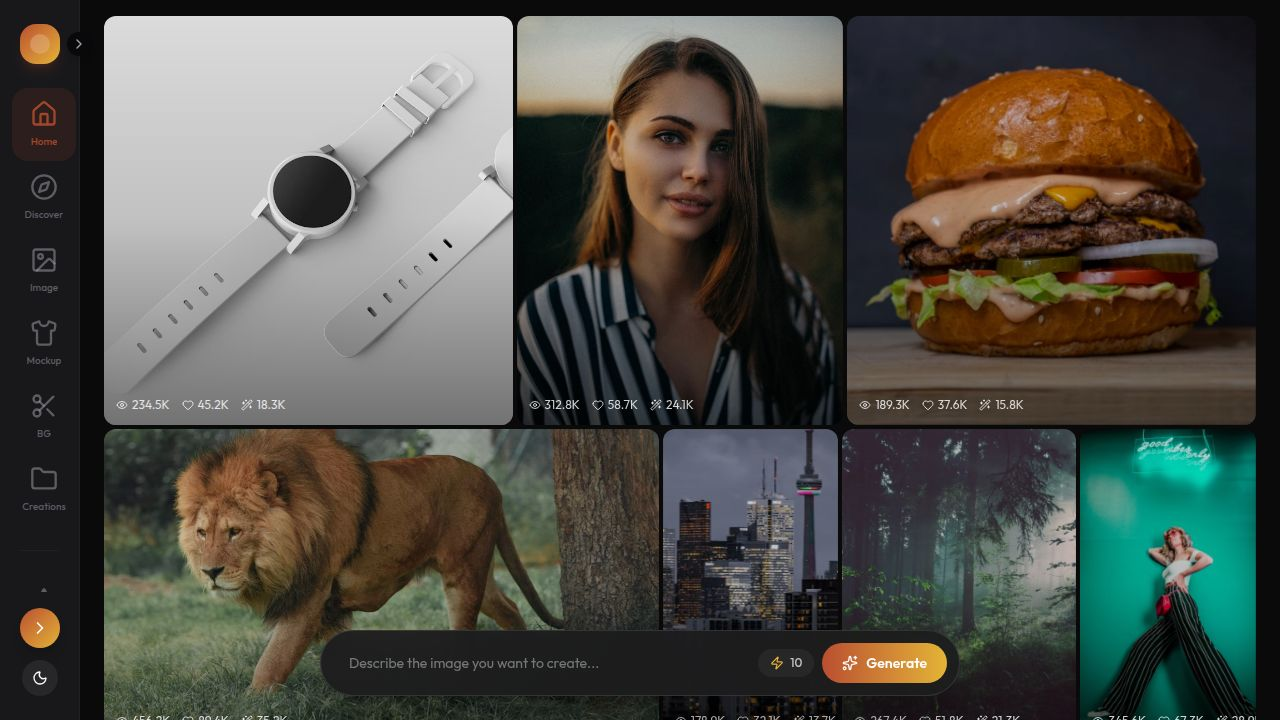
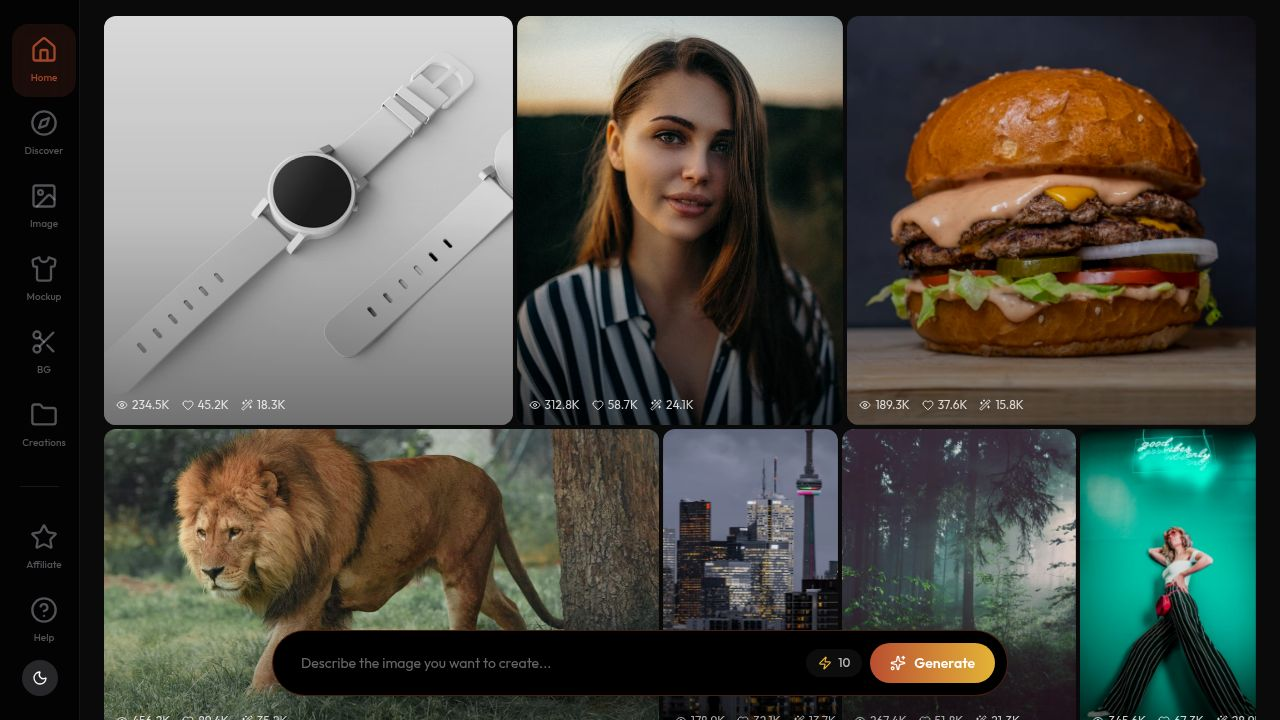
Redesign prompt bar and add frosted glass effect to sidebar
Reorganize the floating prompt bar with input on top and a compact feature dropdown below, and apply a frosted glass effect to the public sidebar component.

Replit-Commit-Author: Agent
Replit-Commit-Session-Id: c3e4121d-e956-4644-804d-67352770f9a6
Replit-Commit-Checkpoint-Type: intermediate_checkpoint
Replit-Commit-Event-Id: 30c1852b-6373-45ae-8990-be819840e0cd
Replit-Commit-Screenshot-Url: https://storage.googleapis.com/screenshot-production-us-central1/2a40bfac-0722-41f4-a364-8c91f025b3f0/c3e4121d-e956-4644-804d-67352770f9a6/RQ3ARtm
Replit-Helium-Checkpoint-Created: true

diff --git a/client/src/components/floating-prompt-bar.tsx b/client/src/components/floating-prompt-bar.tsx
@@ -6,7 +6,8 @@ import {
   RectangleHorizontal, 
   RectangleVertical,
   Zap,
-  ChevronDown
+  ChevronDown,
+  Settings2
 } from "lucide-react";
 import { cn } from "@/lib/utils";
 import { Link } from "wouter";
@@ -91,7 +92,7 @@ export function FloatingPromptBar() {
   return (
     <div 
       ref={containerRef}
-      className="fixed bottom-6 left-1/2 -translate-x-1/2 z-50 w-full max-w-4xl px-4"
+      className="fixed bottom-6 left-1/2 -translate-x-1/2 z-50 w-full max-w-3xl px-4"
       onMouseEnter={handleMouseEnter}
       onMouseLeave={handleMouseLeave}
       onBlur={handleBlur}
@@ -108,159 +109,6 @@ export function FloatingPromptBar() {
         }}
         transition={{ duration: 0.3, ease: [0.4, 0, 0.2, 1] }}
       >
-        <AnimatePresence mode="sync">
-          {isExpanded && (
-            <motion.div
-              initial={{ opacity: 0, height: 0 }}
-              animate={{ opacity: 1, height: "auto" }}
-              exit={{ opacity: 0, height: 0 }}
-              transition={{ duration: 0.25, ease: [0.4, 0, 0.2, 1] }}
-              className="overflow-hidden"
-            >
-              <div className="px-4 py-3 border-b border-white/10">
-                <div className="flex items-center gap-6 overflow-x-auto no-scrollbar">
-                  <div className="flex flex-col gap-1.5 min-w-fit">
-                    <span className="text-[10px] font-semibold text-white/50 uppercase tracking-wider">Quality</span>
-                    <div className="flex gap-1">
-                      {qualityOptions.map((option) => (
-                        <button
-                          key={option.id}
-                          onClick={() => setSelectedQuality(option.id)}
-                          className={cn(
-                            "flex items-center gap-1 px-2.5 py-1 rounded-md text-[11px] font-medium transition-all",
-                            selectedQuality === option.id
-                              ? "bg-[#B94E30] text-white"
-                              : "bg-white/5 text-white/60 hover:bg-white/10 hover:text-white border border-white/10"
-                          )}
-                          data-testid={`quality-${option.id}`}
-                        >
-                          <Sparkles className="h-3 w-3" />
-                          {option.label}
-                        </button>
-                      ))}
-                    </div>
-                  </div>
-
-                  <div className="w-px h-8 bg-white/10" />
-
-                  <div className="flex flex-col gap-1.5 min-w-fit">
-                    <span className="text-[10px] font-semibold text-white/50 uppercase tracking-wider">Speed</span>
-                    <div className="flex gap-1">
-                      {speedOptions.map((option) => (
-                        <button
-                          key={option.id}
-                          onClick={() => setSelectedSpeed(option.id)}
-                          className={cn(
-                            "flex items-center gap-1 px-2.5 py-1 rounded-md text-[11px] font-medium transition-all",
-                            selectedSpeed === option.id
-                              ? "bg-[#B94E30] text-white"
-                              : "bg-white/5 text-white/60 hover:bg-white/10 hover:text-white border border-white/10"
-                          )}
-                          data-testid={`speed-${option.id}`}
-                        >
-                          <Zap className="h-3 w-3" />
-                          {option.label}
-                        </button>
-                      ))}
-                    </div>
-                  </div>
-
-                  <div className="w-px h-8 bg-white/10" />
-
-                  <div className="flex flex-col gap-1.5 min-w-fit">
-                    <span className="text-[10px] font-semibold text-white/50 uppercase tracking-wider">Ratio</span>
-                    <div className="flex gap-1">
-                      {ratioOptions.map((option) => {
-                        const Icon = option.icon;
-                        return (
-                          <button
-                            key={option.id}
-                            onClick={() => setSelectedRatio(option.id)}
-                            className={cn(
-                              "flex items-center justify-center w-7 h-7 rounded-md transition-all",
-                              selectedRatio === option.id
-                                ? "bg-[#B94E30] text-white"
-                                : "bg-white/5 text-white/60 hover:bg-white/10 hover:text-white border border-white/10"
-                            )}
-                            data-testid={`ratio-${option.id}`}
-                          >
-                            <Icon className="h-3.5 w-3.5" />
-                          </button>
-                        );
-                      })}
-                    </div>
-                  </div>
-
-                  <div className="w-px h-8 bg-white/10" />
-
-                  <div className="flex flex-col gap-1.5 min-w-fit">
-                    <span className="text-[10px] font-semibold text-white/50 uppercase tracking-wider">Details</span>
-                    <div className="flex gap-1">
-                      {detailOptions.map((option) => (
-                        <button
-                          key={option.id}
-                          onClick={() => setSelectedDetail(option.id)}
-                          className={cn(
-                            "px-2.5 py-1 rounded-md text-[11px] font-medium transition-all",
-                            selectedDetail === option.id
-                              ? "bg-white/15 text-white ring-1 ring-[#B94E30]"
-                              : "bg-transparent text-white/60 hover:text-white"
-                          )}
-                          data-testid={`detail-${option.id}`}
-                        >
-                          {option.id === "low" && "— "}
-                          {option.id === "medium" && "○ "}
-                          {option.id === "high" && "+ "}
-                          {option.label}
-                        </button>
-                      ))}
-                    </div>
-                  </div>
-
-                  <div className="w-px h-8 bg-white/10" />
-
-                  <div className="flex flex-col gap-1.5 min-w-fit">
-                    <span className="text-[10px] font-semibold text-white/50 uppercase tracking-wider">Style</span>
-                    <div className="flex gap-1 items-center">
-                      <button
-                        className="flex items-center gap-1.5 px-2.5 py-1 rounded-md text-[11px] font-medium bg-white/5 text-white/80 hover:bg-white/10 border border-white/10"
-                        data-testid="style-dropdown"
-                      >
-                        <Sparkles className="h-3 w-3 text-[#B94E30]" />
-                        {styleOptions.find(s => s.id === selectedStyle)?.label}
-                        <ChevronDown className="h-3 w-3 text-white/40" />
-                      </button>
-                    </div>
-                  </div>
-
-                  <div className="w-px h-8 bg-white/10" />
-
-                  <div className="flex flex-col gap-1.5 min-w-fit">
-                    <span className="text-[10px] font-semibold text-white/50 uppercase tracking-wider">Count</span>
-                    <div className="flex gap-1">
-                      {countOptions.map((option) => (
-                        <button
-                          key={option.id}
-                          onClick={() => setSelectedCount(option.id)}
-                          className={cn(
-                            "w-7 h-7 flex items-center justify-center rounded-md text-[11px] font-medium transition-all",
-                            selectedCount === option.id
-                              ? "bg-[#B94E30] text-white"
-                              : "bg-white/5 text-white/60 hover:bg-white/10 hover:text-white border border-white/10"
-                          )}
-                          data-testid={`count-${option.id}`}
-                        >
-                          {option.label}
-                        </button>
-                      ))}
-                    </div>
-                  </div>
-                </div>
-              </div>
-            </motion.div>
-          )}
-        </AnimatePresence>
-
         <div className="p-3 flex items-center gap-3">
           <div className="flex-1 relative">
             <input
@@ -293,6 +141,141 @@ export function FloatingPromptBar() {
             </Link>
           </div>
         </div>
+
+        <AnimatePresence mode="sync">
+          {isExpanded && (
+            <motion.div
+              initial={{ opacity: 0, height: 0 }}
+              animate={{ opacity: 1, height: "auto" }}
+              exit={{ opacity: 0, height: 0 }}
+              transition={{ duration: 0.25, ease: [0.4, 0, 0.2, 1] }}
+              className="overflow-hidden"
+            >
+              <div className="px-4 py-3 border-t border-white/10">
+                <div className="flex items-center gap-4 overflow-x-auto no-scrollbar">
+                  <div className="flex items-center gap-1.5 min-w-fit">
+                    <Settings2 className="h-3.5 w-3.5 text-white/40" />
+                    <span className="text-[10px] font-medium text-white/40 uppercase">Options</span>
+                  </div>
+
+                  <div className="flex items-center gap-1">
+                    {qualityOptions.map((option) => (
+                      <button
+                        key={option.id}
+                        onClick={() => setSelectedQuality(option.id)}
+                        className={cn(
+                          "flex items-center gap-1 px-2 py-1 rounded text-[10px] font-medium transition-all",
+                          selectedQuality === option.id
+                            ? "bg-[#B94E30] text-white"
+                            : "text-white/50 hover:text-white hover:bg-white/5"
+                        )}
+                        data-testid={`quality-${option.id}`}
+                      >
+                        <Sparkles className="h-2.5 w-2.5" />
+                        {option.label}
+                      </button>
+                    ))}
+                  </div>
+
+                  <div className="w-px h-4 bg-white/10" />
+
+                  <div className="flex items-center gap-1">
+                    {speedOptions.map((option) => (
+                      <button
+                        key={option.id}
+                        onClick={() => setSelectedSpeed(option.id)}
+                        className={cn(
+                          "flex items-center gap-1 px-2 py-1 rounded text-[10px] font-medium transition-all",
+                          selectedSpeed === option.id
+                            ? "bg-[#B94E30] text-white"
+                            : "text-white/50 hover:text-white hover:bg-white/5"
+                        )}
+                        data-testid={`speed-${option.id}`}
+                      >
+                        <Zap className="h-2.5 w-2.5" />
+                        {option.label}
+                      </button>
+                    ))}
+                  </div>
+
+                  <div className="w-px h-4 bg-white/10" />
+
+                  <div className="flex items-center gap-0.5">
+                    {ratioOptions.map((option) => {
+                      const Icon = option.icon;
+                      return (
+                        <button
+                          key={option.id}
+                          onClick={() => setSelectedRatio(option.id)}
+                          className={cn(
+                            "flex items-center justify-center w-6 h-6 rounded transition-all",
+                            selectedRatio === option.id
+                              ? "bg-[#B94E30] text-white"
+                              : "text-white/50 hover:text-white hover:bg-white/5"
+                          )}
+                          data-testid={`ratio-${option.id}`}
+                        >
+                          <Icon className="h-3 w-3" />
+                        </button>
+                      );
+                    })}
+                  </div>
+
+                  <div className="w-px h-4 bg-white/10" />
+
+                  <div className="flex items-center gap-1">
+                    {detailOptions.map((option) => (
+                      <button
+                        key={option.id}
+                        onClick={() => setSelectedDetail(option.id)}
+                        className={cn(
+                          "px-2 py-1 rounded text-[10px] font-medium transition-all",
+                          selectedDetail === option.id
+                            ? "text-white bg-white/10"
+                            : "text-white/50 hover:text-white"
+                        )}
+                        data-testid={`detail-${option.id}`}
+                      >
+                        {option.label}
+                      </button>
+                    ))}
+                  </div>
+
+                  <div className="w-px h-4 bg-white/10" />
+
+                  <button
+                    className="flex items-center gap-1 px-2 py-1 rounded text-[10px] font-medium text-white/60 hover:text-white hover:bg-white/5"
+                    data-testid="style-dropdown"
+                  >
+                    <Sparkles className="h-2.5 w-2.5 text-[#B94E30]" />
+                    {styleOptions.find(s => s.id === selectedStyle)?.label}
+                    <ChevronDown className="h-2.5 w-2.5" />
+                  </button>
+
+                  <div className="w-px h-4 bg-white/10" />
+
+                  <div className="flex items-center gap-0.5">
+                    {countOptions.map((option) => (
+                      <button
+                        key={option.id}
+                        onClick={() => setSelectedCount(option.id)}
+                        className={cn(
+                          "w-6 h-6 flex items-center justify-center rounded text-[10px] font-medium transition-all",
+                          selectedCount === option.id
+                            ? "bg-[#B94E30] text-white"
+                            : "text-white/50 hover:text-white hover:bg-white/5"
+                        )}
+                        data-testid={`count-${option.id}`}
+                      >
+                        {option.label}
+                      </button>
+                    ))}
+                  </div>
+                </div>
+              </div>
+            </motion.div>
+          )}
+        </AnimatePresence>
       </motion.div>
     </div>
   );

diff --git a/client/src/components/public-sidebar.tsx b/client/src/components/public-sidebar.tsx
@@ -131,7 +131,7 @@ export function PublicSidebar({ className }: PublicSidebarProps) {
       <MobileNav />
       <aside 
         className={cn(
-          "relative h-screen border-r bg-sidebar transition-all duration-300 ease-in-out flex-col z-40 hidden md:flex",
+          "relative h-screen border-r border-white/10 bg-black/60 backdrop-blur-xl transition-all duration-300 ease-in-out flex-col z-40 hidden md:flex",
           collapsed ? "w-[80px]" : "w-[280px]",
           className
         )}
